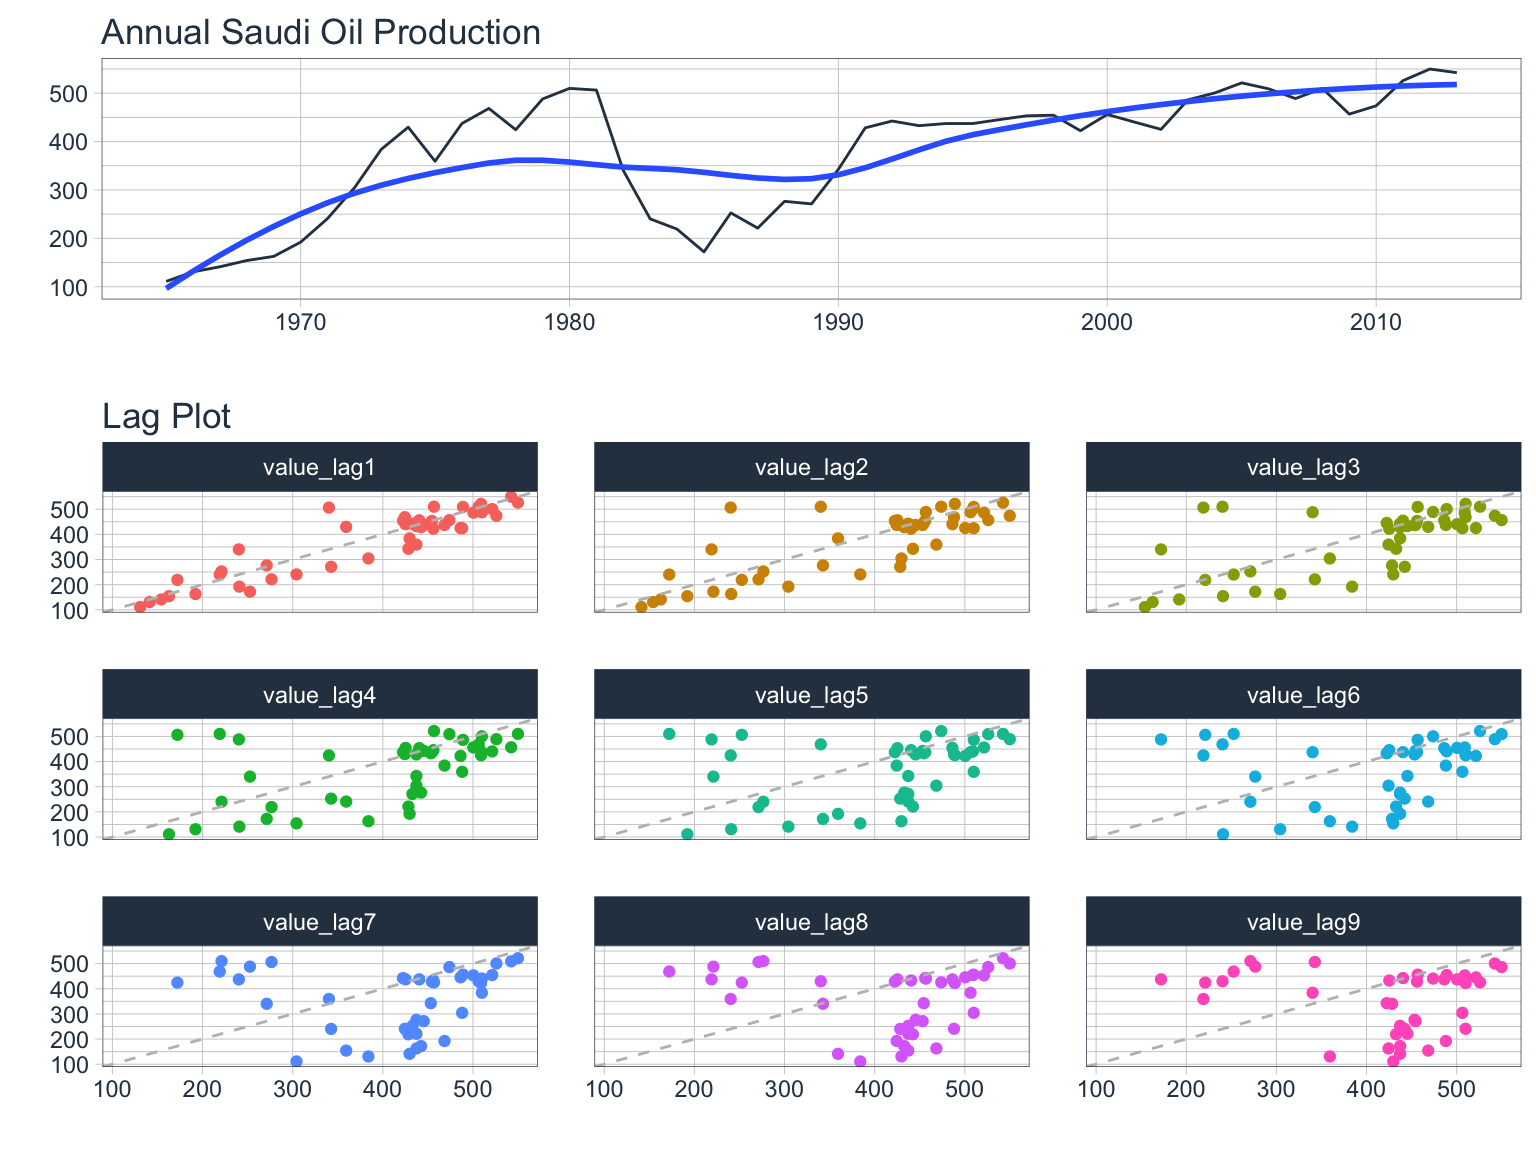
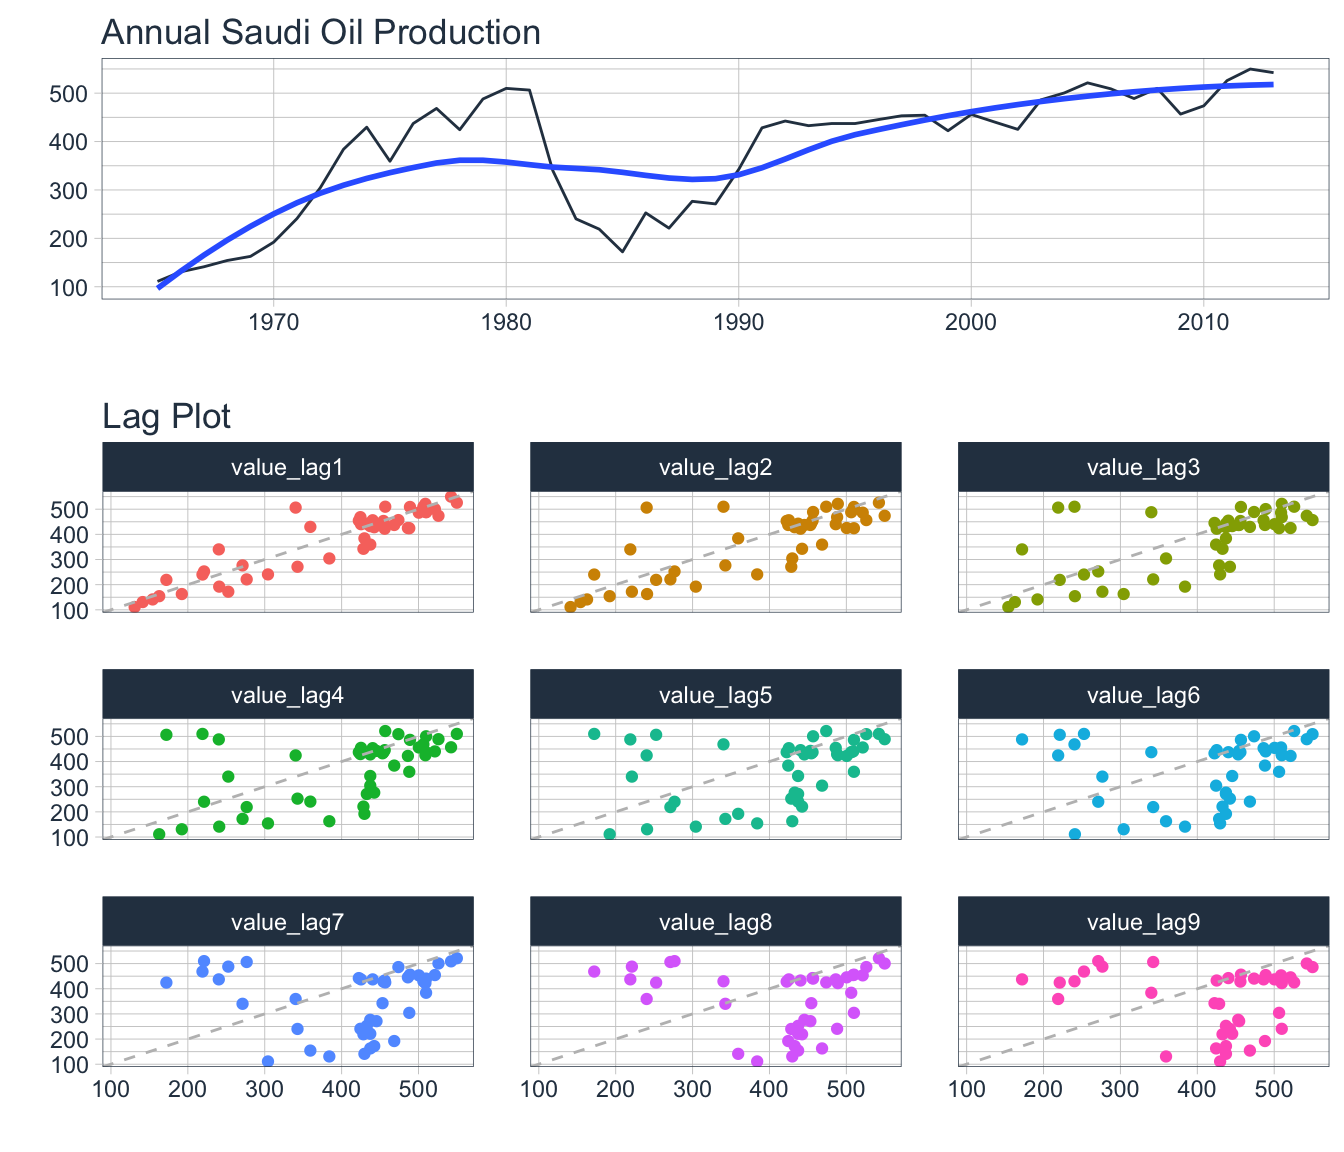
update

diff --git a/content/post/2020-10-10-r-rmarkdown.html b/content/post/2020-10-10-r-rmarkdown.html
@@ -20,7 +20,6 @@ tags: ["R", "tidyverse", "time Series", "modeltime", "fpp2", "fpp3", "forecast",
 <ul>
 <li>Only the essential code has been provided</li>
 <li>Non-essential code such as plot titles and themes has been excluded</li>
-<li>All plots utilize the Business Science ggplot theme</li>
 </ul>
 </div>
 <div id="load-libraries" class="section level3">
@@ -187,7 +186,7 @@ aus_tbl_long %&gt;%
 <pre class="r"><code># Using fpp2
 aus_prod_ts %&gt;%  
   autoplot(facets=TRUE)   # With facetting</code></pre>
-<p><img src="/post/2020-10-10-r-rmarkdown_files/figure-html/unnamed-chunk-9-1.png" width="768" /></p>
+<p><img src="/post/2020-10-10-r-rmarkdown_files/figure-html/unnamed-chunk-9-1.png" width="672" /></p>
 </div>
 <div id="fpp3-method-plot-multiple-series-on-separate-axes" class="section level3">
 <h3>3.5 fpp3 Method: Plot Multiple Series On Separate Axes</h3>
@@ -197,7 +196,7 @@ aus_tsbl_long %&gt;%
   geom_line() + 
   theme(legend.position = &quot;None&quot;) +         # Remove legend
   facet_grid(vars(key), scales = &quot;free_y&quot;)  # With facetting</code></pre>
-<p><img src="/post/2020-10-10-r-rmarkdown_files/figure-html/unnamed-chunk-10-1.png" width="768" /></p>
+<p><img src="/post/2020-10-10-r-rmarkdown_files/figure-html/unnamed-chunk-10-1.png" width="672" /></p>
 </div>
 <div id="timetk-method-plot-multiple-series-on-separate-axes" class="section level3">
 <h3>3.6 timetk Method: Plot Multiple Series On Separate Axes</h3>
@@ -211,7 +210,7 @@ aus_tbl_long %&gt;%
         .interactive = FALSE,
         .legend_show = FALSE
     )</code></pre>
-<p><img src="/post/2020-10-10-r-rmarkdown_files/figure-html/unnamed-chunk-11-1.png" width="768" /></p>
+<p><img src="/post/2020-10-10-r-rmarkdown_files/figure-html/unnamed-chunk-11-1.png" width="672" /></p>
 </div>
 </div>
 <div id="seasonal-plots" class="section level1">
@@ -445,6 +444,6 @@ o2 &lt;- oil_lag_long %&gt;%
 
 # Plot both
 plot_grid(o1, o2, ncol=1, rel_heights = c(1,2))</code></pre>
-<p><img src="/post/2020-10-10-r-rmarkdown_files/figure-html/unnamed-chunk-21-1.png" width="768" /></p>
+<p><img src="/post/2020-10-10-r-rmarkdown_files/figure-html/unnamed-chunk-21-1.png" width="672" /></p>
 </div>
 </div>

diff --git a/public/2020/10/10/tidy-forecasting-how-to-visualize-time-series/index.html b/public/2020/10/10/tidy-forecasting-how-to-visualize-time-series/index.html
@@ -85,7 +85,6 @@
 <ul>
 <li>Only the essential code has been provided</li>
 <li>Non-essential code such as plot titles and themes has been excluded</li>
-<li>All plots utilize the Business Science ggplot theme</li>
 </ul>
 </div>
 <div id="load-libraries" class="section level3">
@@ -252,7 +251,7 @@ aus_tbl_long %&gt;%
 <pre class="r"><code># Using fpp2
 aus_prod_ts %&gt;%  
   autoplot(facets=TRUE)   # With facetting</code></pre>
-<p><img src="/post/2020-10-10-r-rmarkdown_files/figure-html/unnamed-chunk-9-1.png" width="768" /></p>
+<p><img src="/post/2020-10-10-r-rmarkdown_files/figure-html/unnamed-chunk-9-1.png" width="672" /></p>
 </div>
 <div id="fpp3-method-plot-multiple-series-on-separate-axes" class="section level3">
 <h3>3.5 fpp3 Method: Plot Multiple Series On Separate Axes</h3>
@@ -262,7 +261,7 @@ aus_tsbl_long %&gt;%
   geom_line() + 
   theme(legend.position = &quot;None&quot;) +         # Remove legend
   facet_grid(vars(key), scales = &quot;free_y&quot;)  # With facetting</code></pre>
-<p><img src="/post/2020-10-10-r-rmarkdown_files/figure-html/unnamed-chunk-10-1.png" width="768" /></p>
+<p><img src="/post/2020-10-10-r-rmarkdown_files/figure-html/unnamed-chunk-10-1.png" width="672" /></p>
 </div>
 <div id="timetk-method-plot-multiple-series-on-separate-axes" class="section level3">
 <h3>3.6 timetk Method: Plot Multiple Series On Separate Axes</h3>
@@ -276,7 +275,7 @@ aus_tbl_long %&gt;%
         .interactive = FALSE,
         .legend_show = FALSE
     )</code></pre>
-<p><img src="/post/2020-10-10-r-rmarkdown_files/figure-html/unnamed-chunk-11-1.png" width="768" /></p>
+<p><img src="/post/2020-10-10-r-rmarkdown_files/figure-html/unnamed-chunk-11-1.png" width="672" /></p>
 </div>
 </div>
 <div id="seasonal-plots" class="section level1">
@@ -510,7 +509,7 @@ o2 &lt;- oil_lag_long %&gt;%
 
 # Plot both
 plot_grid(o1, o2, ncol=1, rel_heights = c(1,2))</code></pre>
-<p><img src="/post/2020-10-10-r-rmarkdown_files/figure-html/unnamed-chunk-21-1.png" width="768" /></p>
+<p><img src="/post/2020-10-10-r-rmarkdown_files/figure-html/unnamed-chunk-21-1.png" width="672" /></p>
 </div>
 </div>
 
